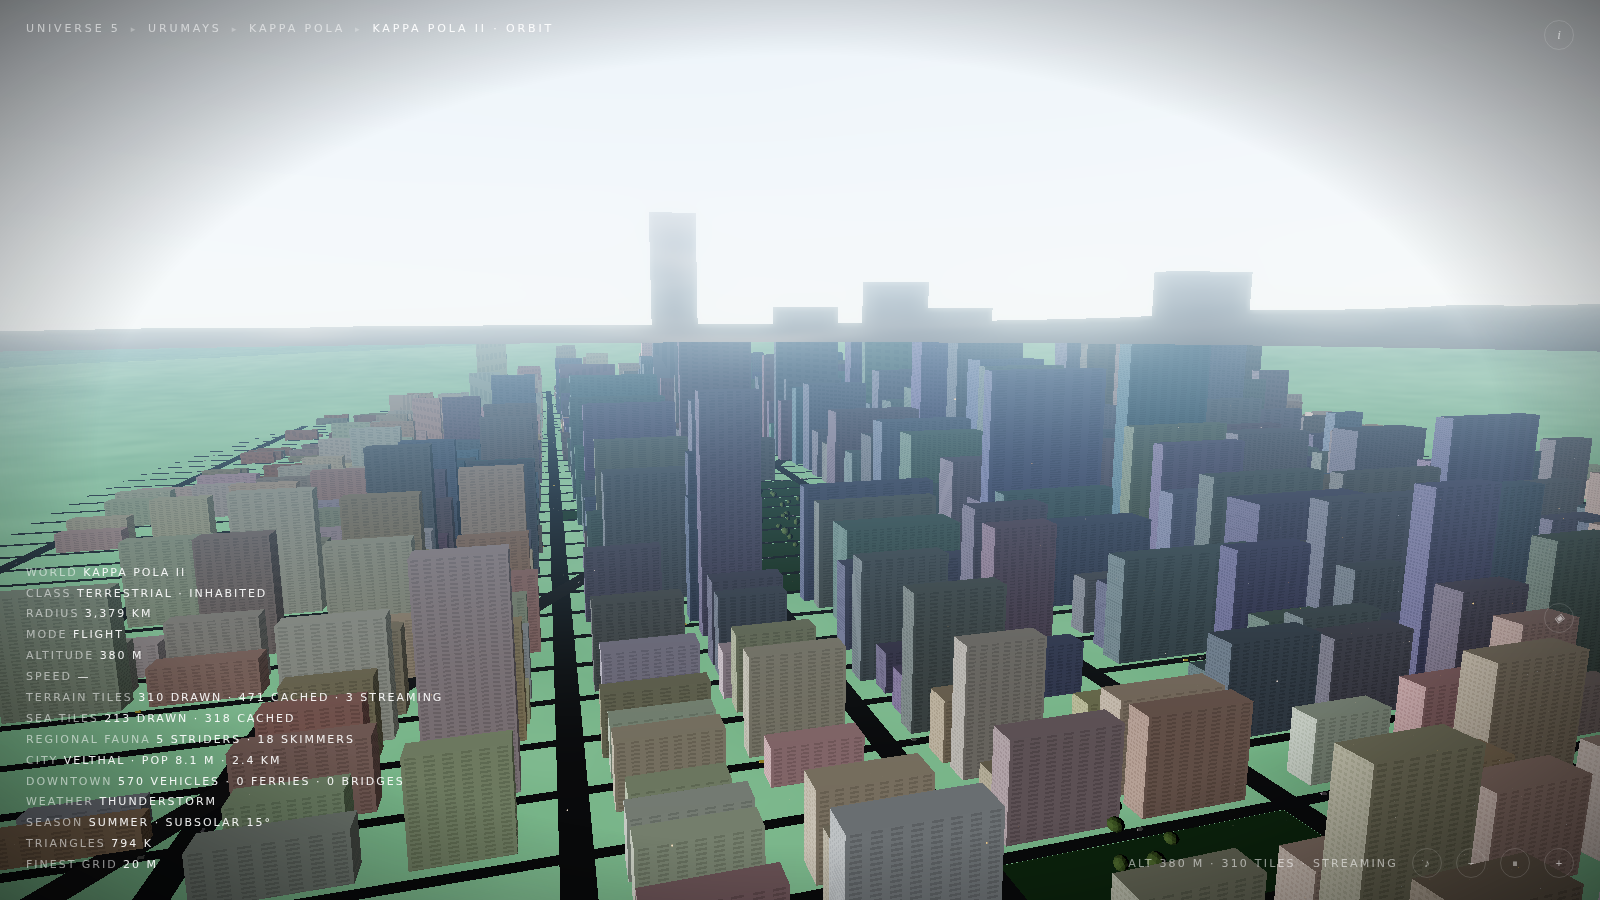
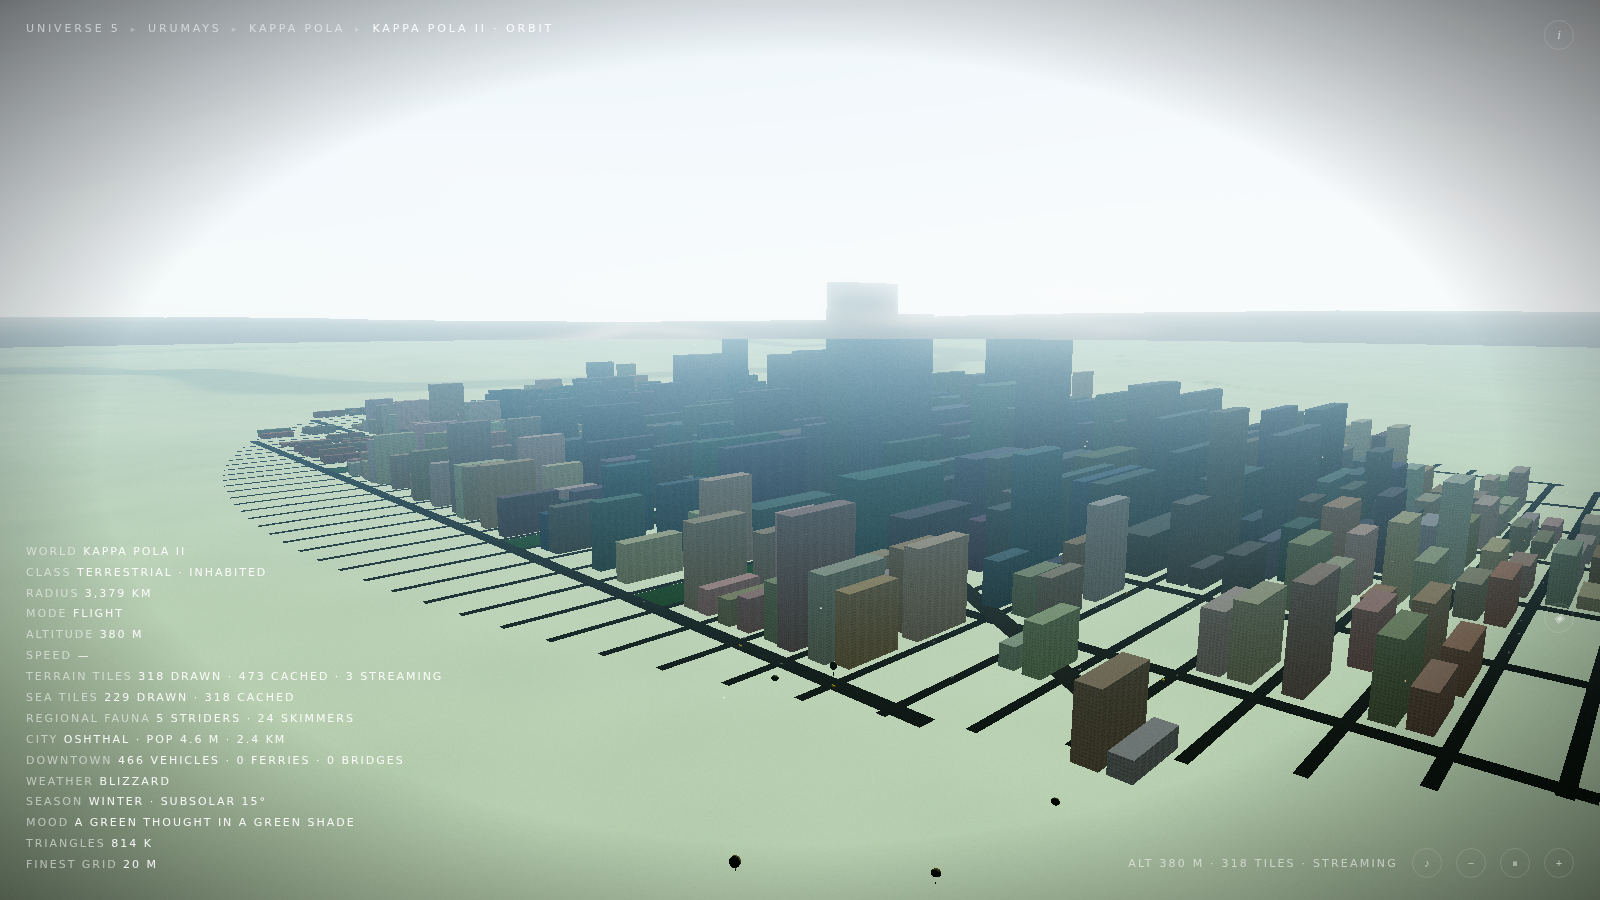
Gallery re-shot through the grade: Oshthal in its green shade
The four hero frames now come from the shipped code — the metropolis
in a river plain wearing its world's mood, the canyon, the dusk street,
and the ignition over dark water. Full verification green on the final
build: pad at engage, roads 0-sunken of 839 samples, the descent
director back on the plaza (snap 0.0001 rad), no page errors.

Claude-Session: https://claude.ai/code/session_01XojRyiVXndTcBA2zWApsYN

diff --git a/README.md b/README.md
@@ -243,13 +243,13 @@ and a bay bridge, is the same Sabveth on every machine, forever.
 
 ![Sabveth: downtown against the waterline, ten ferries out](docs/screenshots/44-harbor.png)
 
-![Velthal whole from 1.9 km: the grid etched, two cores, one supertall](docs/screenshots/40-metropolis.png)
+![Oshthal whole from 1.9 km: the grid etched into a river plain, worn in its world's mood](docs/screenshots/40-metropolis.png)
 
 | | |
 | --- | --- |
 | ![midtown at 380 m: towers separate, streets in shadow](docs/screenshots/41-city-canyon.png) | ![dusk from a downtown street: the windows keep their own hours](docs/screenshots/43-dusk-street.png) |
 
-![the ignition: Velthal's eight million windows coming on with the dark](docs/screenshots/42-city-ignition.png)
+![the ignition: four and a half million windows coming on with the dark](docs/screenshots/42-city-ignition.png)
 
 And every world answers to something now — a film, a painting, a game, a
 page read at the right age. Each planet draws a **resonance** at birth
